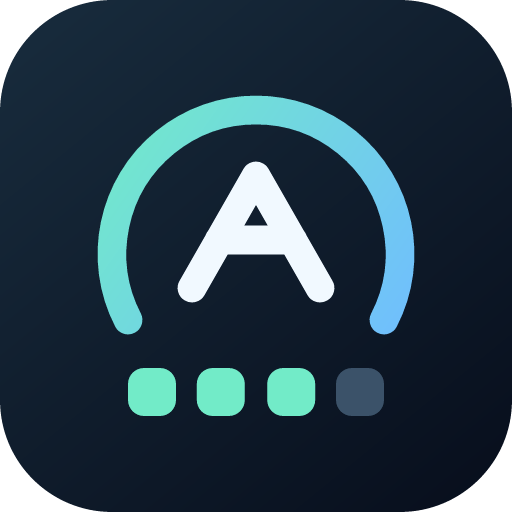
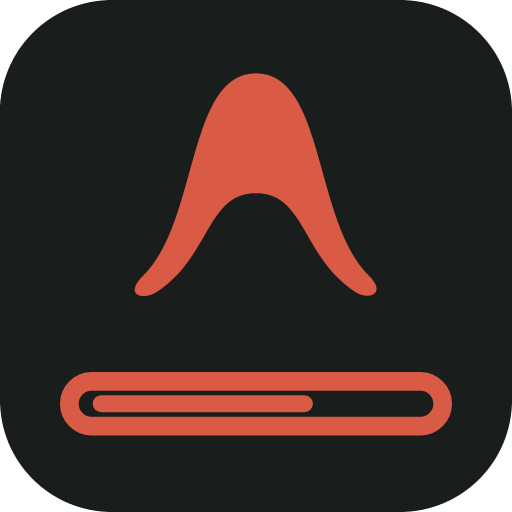
design: pair the Antigravity mark with a flat progress bar

diff --git a/TODO.md b/TODO.md
@@ -99,7 +99,7 @@ server/usage.test.ts            discover / fetch 接缝处的行为测试
 
 ### 阶段六：GitHub 发布准备
 - [x] 英文 README、英文 OVERVIEW、MIT LICENSE、CHANGELOG 与发布指南。
-- [x] 重绘 UsageSource 单色 SVG 与仓库/插件列表彩色 PNG 图标。
+- [x] 重绘 UsageSource 单色 SVG 与仓库/插件列表 PNG 图标：上方 Antigravity 标志、下方细圆角进度条；列表使用单一砖红色，无渐变。
 - [x] `assets/marketplace/usage-dark.png`：Windows 原生卡片实拍，账号邮箱已不透明遮盖；已接入 README 与 manifest media。
 - [x] GitHub 安装声明锁定依赖准备命令；保留 `private: true`，不发布 npm 包。
 - [x] Node.js 24 开发环境、Windows / Linux CI、tag 触发的 GitHub Release 工作流。

diff --git a/CHANGELOG.md b/CHANGELOG.md
@@ -10,5 +10,5 @@
 - Read-only credential access, CLI-managed login renewal, and sanitized error diagnostics.
 - Windows Credential Manager, macOS Keychain, and Linux Secret Service adapters. Windows has live-host verification.
 - Behavior-focused tests, CI, and a GitHub-only release workflow.
-- New monochrome usage-source icon and a color listing icon.
+- An Antigravity mark above an outlined progress bar, with monochrome and flat terracotta listing icons.
 - A redacted screenshot of the native Usage card, included in the README and plugin listing media.
